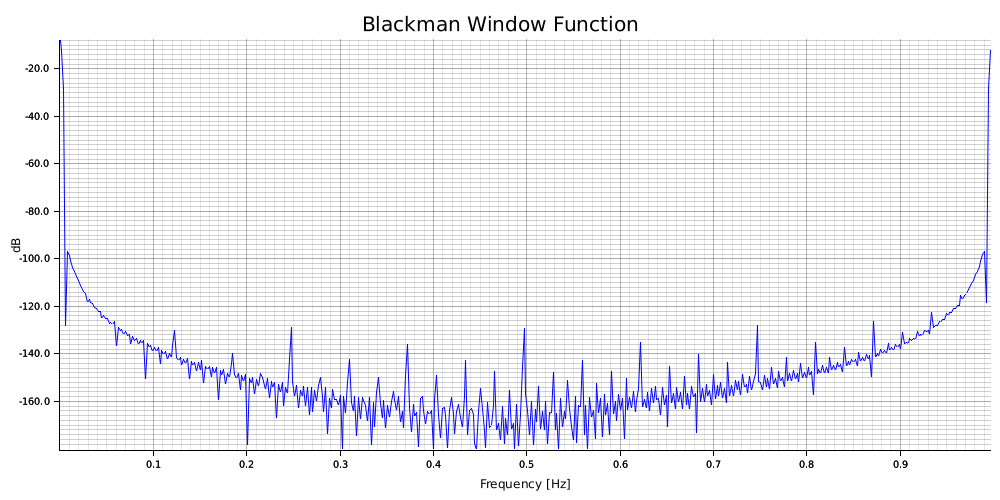
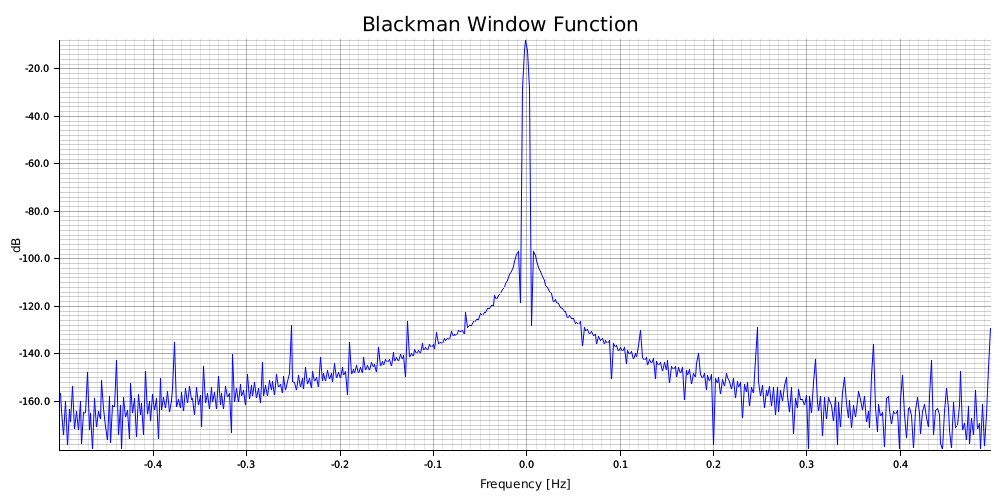
feat: adds fft-shift

diff --git a/src/vec/complex.rs b/src/vec/complex.rs
@@ -325,6 +325,45 @@ impl <T: MixedReal + MixedNumSigned + MixedNumConversion<T> + MixedTrigonometry 
     }
 }
 
+impl <T: Clone + Copy> FftShift for Vec<T> {
+    /// Rearrange a frequency domain vector from [0,2π] to [-π,π].
+    ///
+    ///  ## Example
+    /// 
+    /// ```
+    /// use ndsp::*;
+    /// 
+    /// let n = 512;
+    /// let mut complex_vec = Vec::osc(1f32,0f32,n);
+    ///
+    /// complex_vec.fft();
+    /// 
+    /// complex_vec.fft_shift();
+    ///
+    /// complex_vec.mag();
+    /// 
+    /// complex_vec.re().simple_plot("./figures/fft_shift_test.png", "FFT Shift Demonstration");
+    /// ```
+    /// 
+    /// The resulting plot is shown below.
+    ///
+    /// ![Alt version](https://raw.githubusercontent.com/norsk-datateknikk/NDSP/main/figures/fft_shift_test.png) 
+    fn fft_shift( &mut self )
+    {
+        let tempvec = self.clone();
+        let half_len = self.len()/2;
+
+        for idx in 0..half_len
+        {
+            self[idx] = tempvec[half_len+idx];
+        }
+        for idx in 0..half_len
+        {
+            self[half_len+idx] = tempvec[idx];
+        }
+    }
+}
+
 /*
 #[cfg(any(feature = "std"))]
 impl <T> traits::FromBinary for Vec<Complex<T>>

diff --git a/src/vec/plot.rs b/src/vec/plot.rs
@@ -239,8 +239,10 @@ impl <T:MixedNum + MixedReal + MixedNumSigned + MixedTrigonometry + MixedSqrt + 
         let sample_rate_hz:f32 = sample_rate_hz.mixed_to_num();
         let step_hz: f32 = 2f32*sample_rate_hz/(psd.len() as f32);
 
-        let x_vec = Vec::lin_range(0f32, sample_rate_hz-step_hz, psd.len());
+        let x_vec = Vec::lin_range(-&sample_rate_hz/2f32, &sample_rate_hz/2f32-step_hz, psd.len());
         psd.pow2db();
+
+        psd.fft_shift();
 
         psd.minimum( floor_db);
     

diff --git a/src/traits.rs b/src/traits.rs
@@ -149,6 +149,11 @@ pub trait Fft {
     fn fft( &mut self );
 }
 
+pub trait FftShift {
+    /// Reatrange a frequency domain vector from [0,2π] to [-π,π].
+    fn fft_shift( &mut self );
+}
+
 pub trait Ifft {
     /// Compute the the FFT of `self`. Computed-in-place.
     fn ifft( &mut self );

diff --git a/src/lib.rs b/src/lib.rs
@@ -84,7 +84,7 @@
 //! use ndsp::*;
 //! use mixed_num::Cartesian;
 //! 
-//! let mut vec = Vec::<f32>::barlett(256);
+//! let mut vec = Vec::<f32>::bartlett(256);
 //! 
 //! vec.simple_plot("./figures/barlett_test_lib.png", "Barlett Window Function");
 //! 
